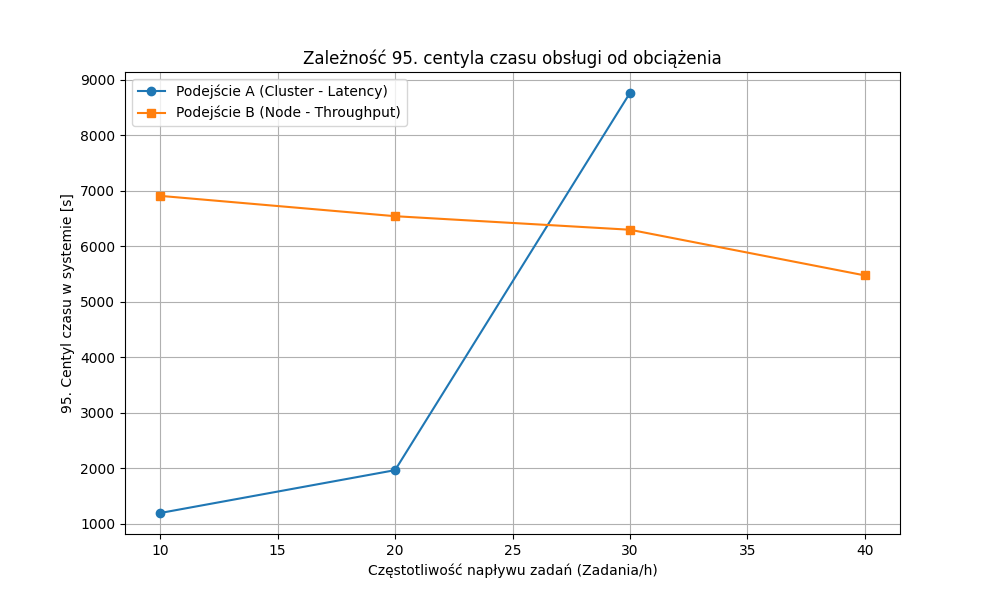
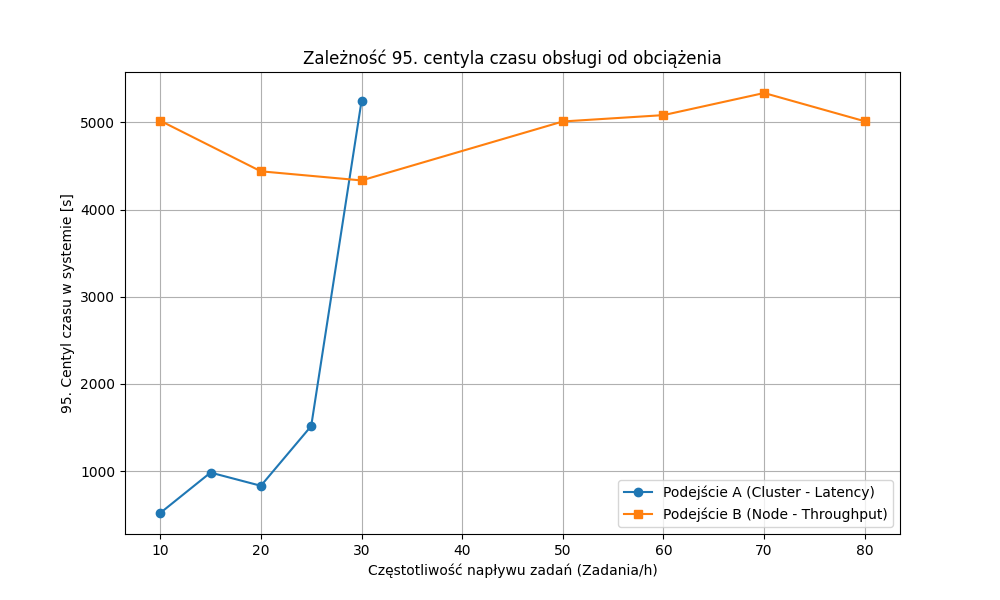
fast upload

diff --git a/python/run_batch.py b/python/run_batch.py
@@ -7,12 +7,12 @@ import time
 def run_experiments(seed):
     configs = [
         ("B", 10),
-        ("B", 20),
         ("B", 30),
         ("B", 50),
-        ("B", 60),
         ("B", 70),
-        ("B", 80),
+        ("B", 90),
+        ("B", 110),
+        ("B", 130),
 
         ("A", 10),
         ("A", 15),
@@ -54,5 +54,5 @@ def run_experiments(seed):
 if __name__ == "__main__":
     parser = argparse.ArgumentParser(description="CVRP Day Simulator")
     parser.add_argument("--seed", type=int, default=1, help="Seed dla uruchomienia")
-    for i in range(3, 9):
+    for i in range(9, 13):
         run_experiments(i)
